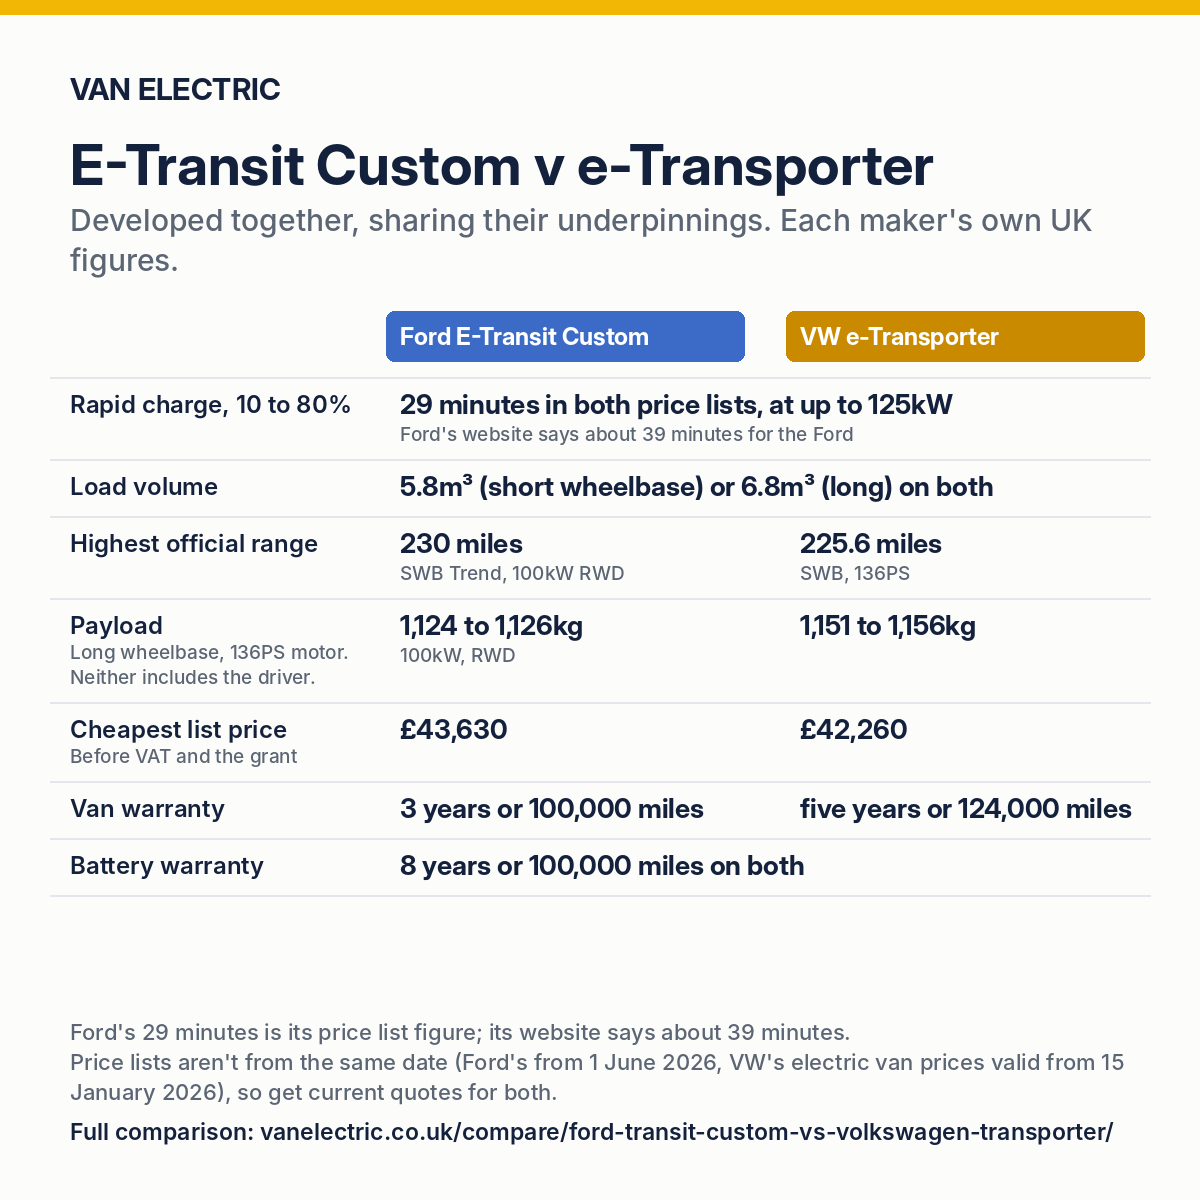
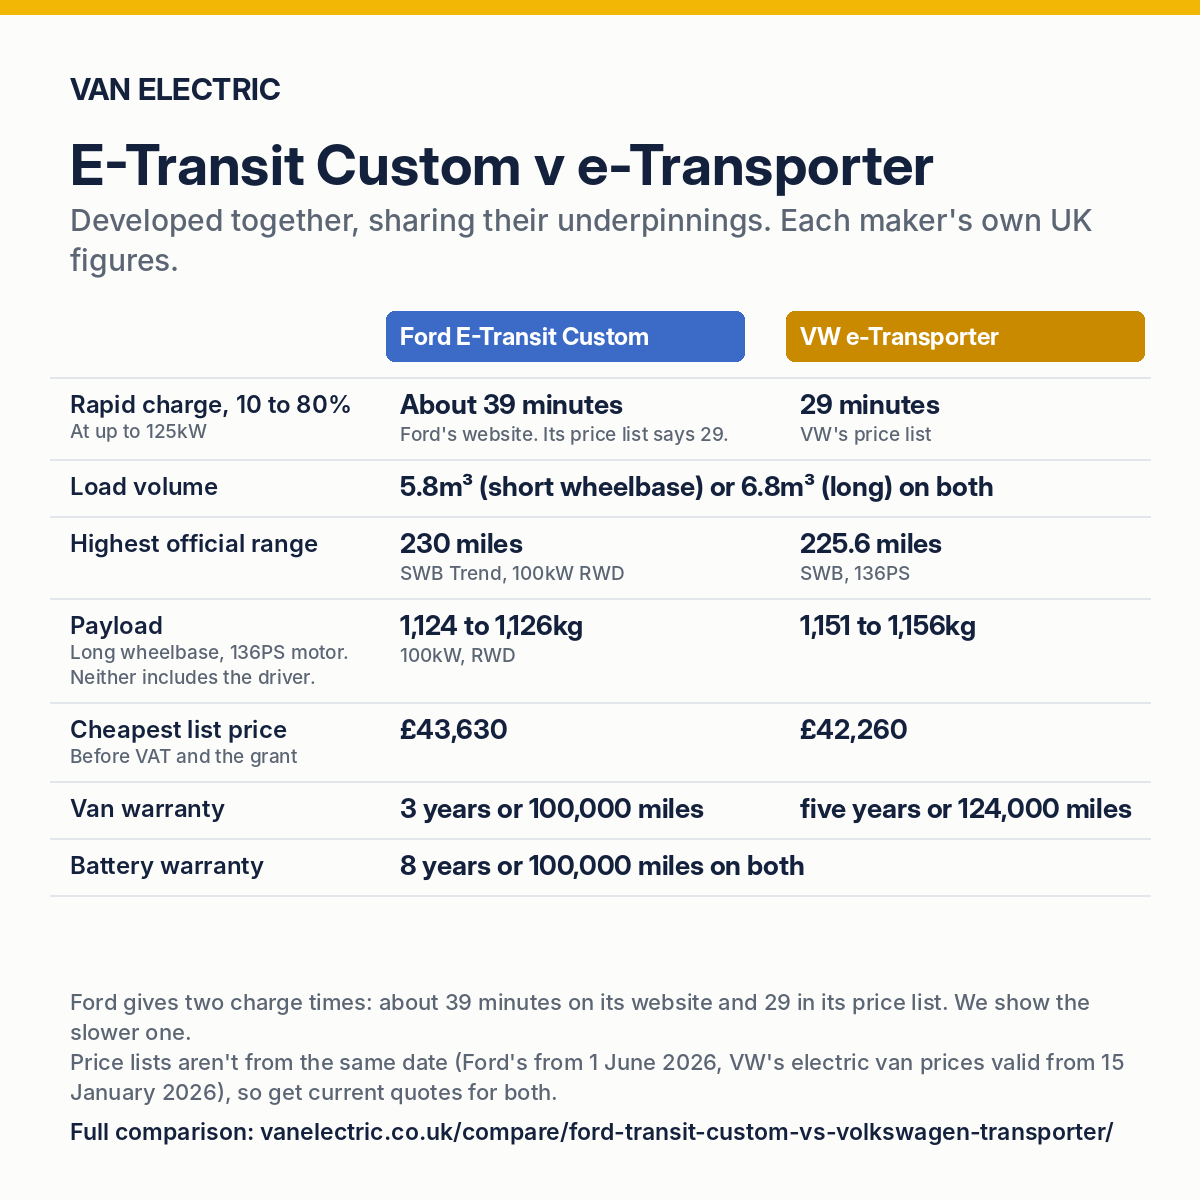
Post 9: lead with Ford's slower 39-minute charge time
Claude-Session: https://claude.ai/code/session_01Y739fKfVCrU5qPWWHgayZV

Changed region(s): [[0.3392, 0.3083, 0.8017, 0.37], [0.0617, 0.8325, 0.8942, 0.8633], [0.0617, 0.3392, 0.185, 0.37]]

diff --git a/scripts/content_pack_images.py b/scripts/content_pack_images.py
@@ -347,7 +347,7 @@ def compare(title, subtitle, names, rows, notes, slug):
 
 
 def post9():
-    rows = [('Rapid charge, 10 to 80%', '', '29 minutes in both price lists, at up to 125kW', "Ford's website says about 39 minutes for the Ford"),
+    rows = [('Rapid charge, 10 to 80%', 'At up to 125kW', 'About 39 minutes', "Ford's website. Its price list says 29.", '29 minutes', "VW's price list"),
             ('Load volume', '', '5.8m³ (short wheelbase) or 6.8m³ (long) on both', ''),
             ('Highest official range', '', '230 miles', 'SWB Trend, 100kW RWD', '225.6 miles', 'SWB, 136PS'),
             ('Payload', 'Long wheelbase, 136PS motor. Neither includes the driver.', '1,124 to 1,126kg', '100kW, RWD', '1,151 to 1,156kg', ''),
@@ -356,7 +356,7 @@ def post9():
             ('Battery warranty', '', '8 years or 100,000 miles on both', '')]
     return compare('E-Transit Custom v e-Transporter', "Developed together, sharing their underpinnings. Each maker's own UK figures.",
                    ['Ford E-Transit Custom', 'VW e-Transporter'], rows,
-                   ["Ford's 29 minutes is its price list figure; its website says about 39 minutes.",
+                   ["Ford gives two charge times: about 39 minutes on its website and 29 in its price list. We show the slower one.",
                     "Price lists aren't from the same date (Ford's from 1 June 2026, VW's electric van prices valid from 15 January 2026), so get current quotes for both."],
                    'ford-transit-custom-vs-volkswagen-transporter')
 

diff --git a/marketing/content-pack-2026-11.md b/marketing/content-pack-2026-11.md
@@ -239,7 +239,7 @@ Image: marketing/images/pack-post-8.png
 
 Ford E-Transit Custom or Volkswagen e-Transporter? The two were developed together and share their underpinnings. Here's how they compare on each maker's own UK figures:
 
-Rapid charge, 10 to 80%: 29 minutes in both price lists, at up to 125kW (Ford's website says about 39 minutes for the Ford)
+Rapid charge, 10 to 80%, at up to 125kW: Ford about 39 minutes (Ford's website; its price list says 29); VW 29 minutes
 Load volume: 5.8m³ (short wheelbase) or 6.8m³ (long) on both
 Highest official range: Ford 230 miles (SWB Trend, 100kW RWD); VW 225.6 miles (SWB, 136PS)
 Payload, long wheelbase, 136PS motor: Ford 1,124 to 1,126kg (100kW, RWD); VW 1,151 to 1,156kg. Neither includes the driver.
